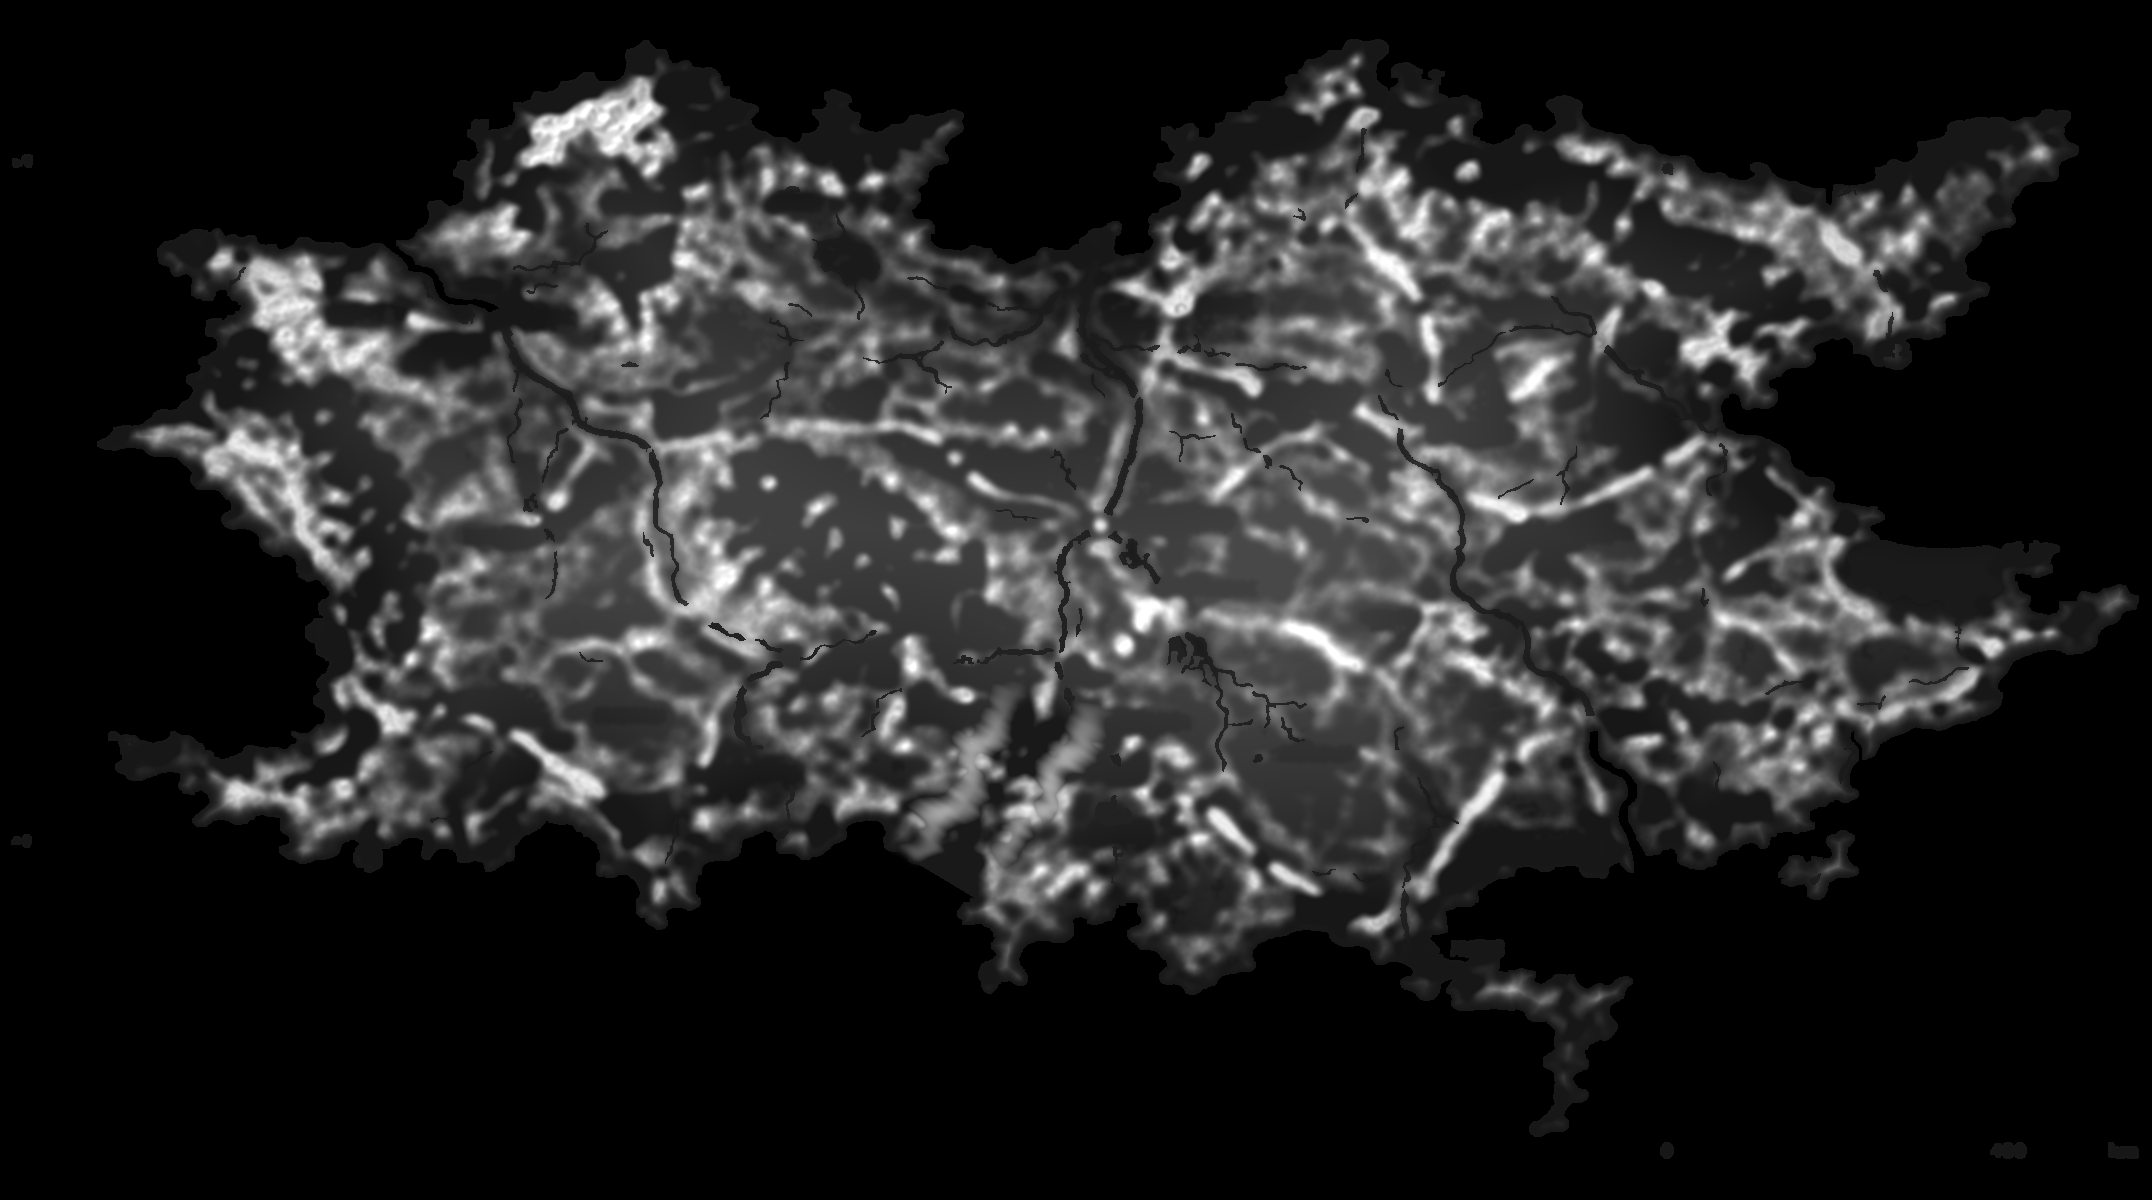
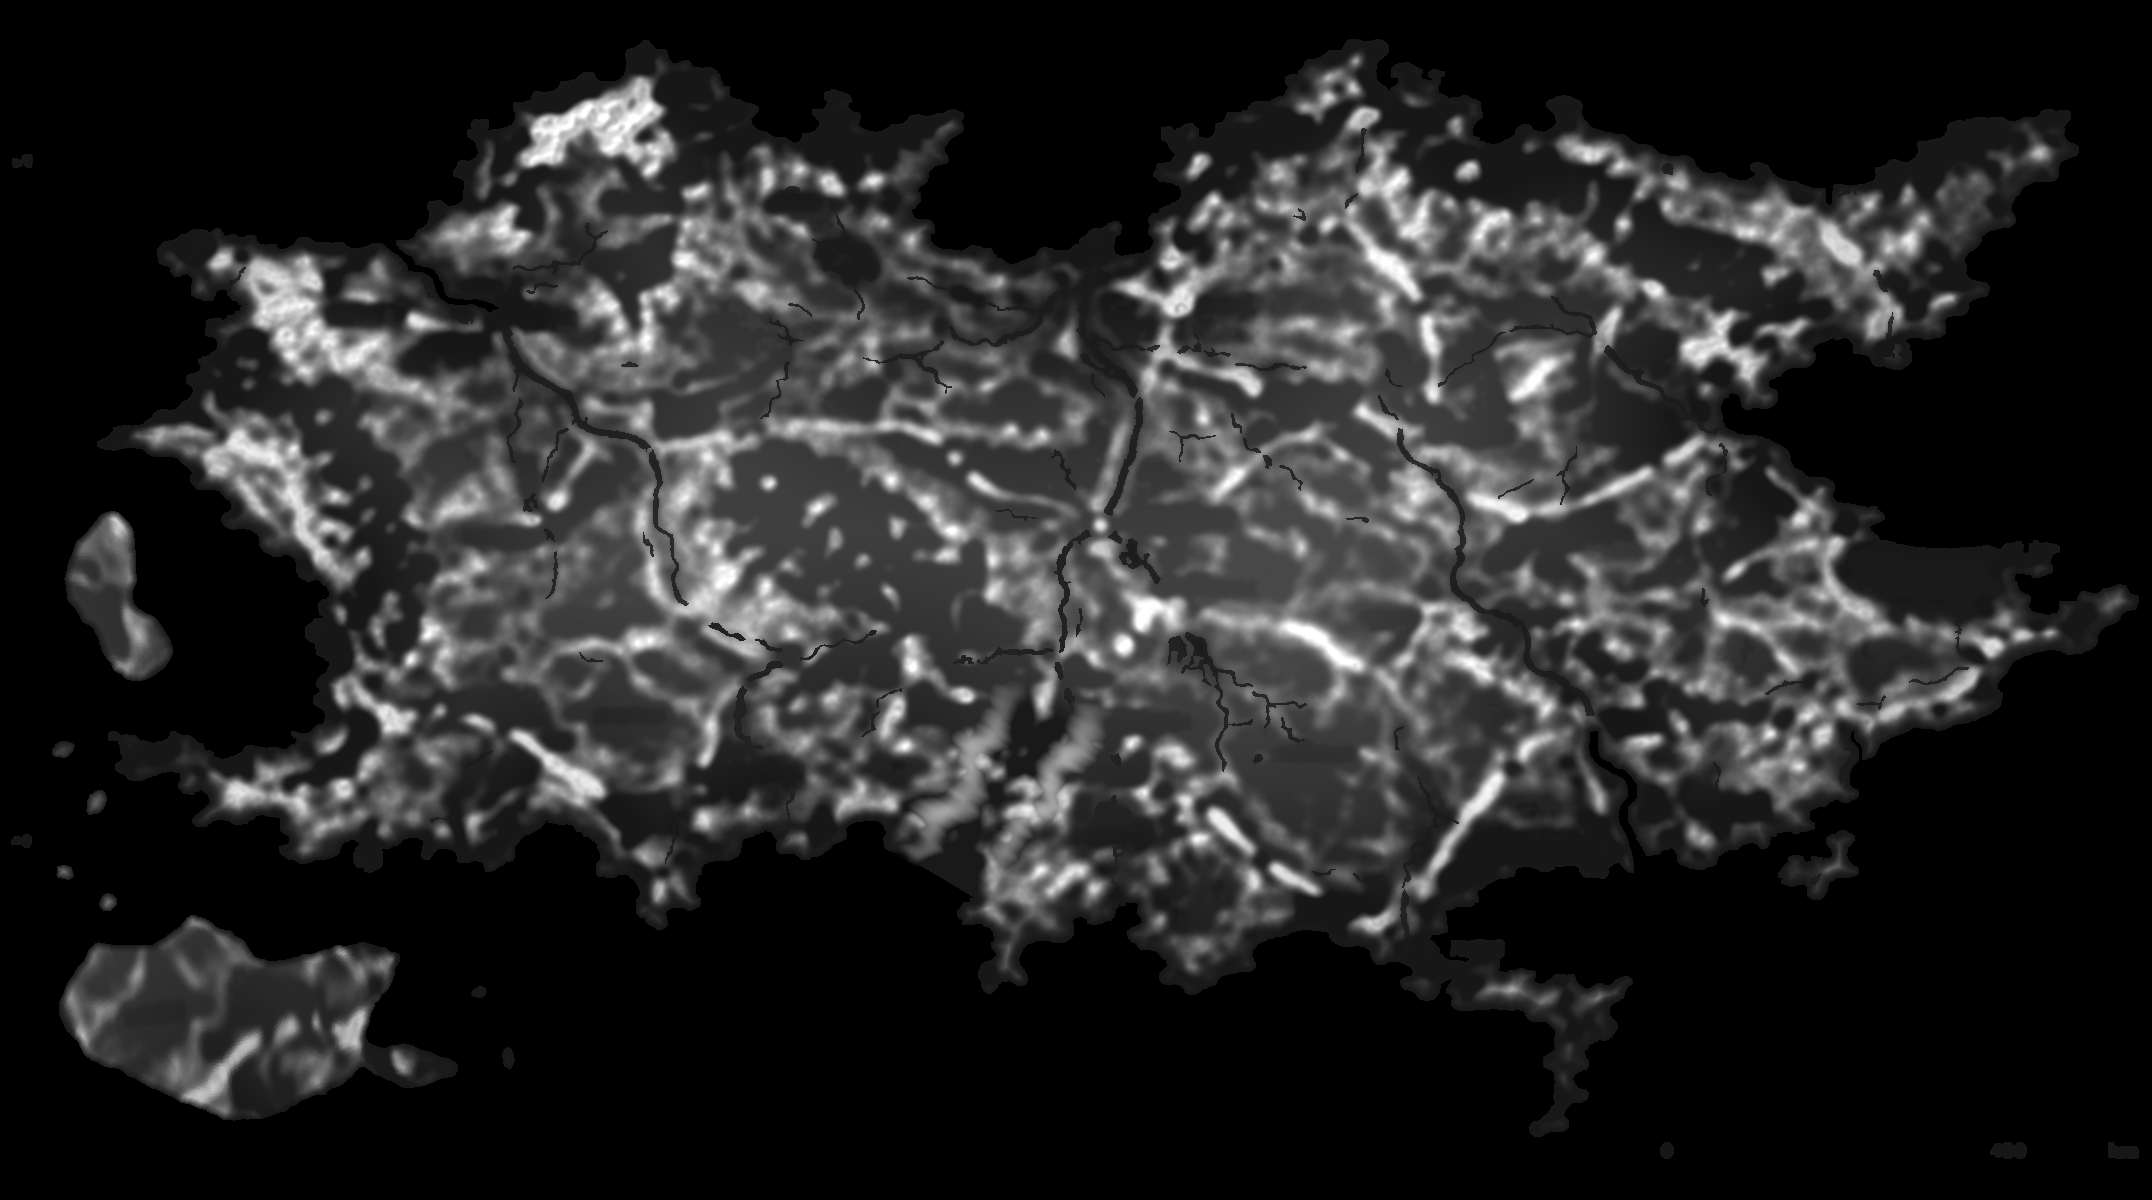
feat(flight): 阿斯佩里亞外海加大型島群／(1094,808) 設村落備用 ver -733
Ray：「在1094,808設置一個村落，備著」「飛行地圖在阿斯佩里亞王國外海增加
一個大型島嶼，面積與恩亞王國差不多，島群配置像英國但不要讓人一眼看出」

- 島群（flight/build_island.py 生成，可重跑調形）：
  · 主島 48,901px ≈ 恩雅（48,922），西南外海，長軸東西向
  · 中島 10,201px 在西灣、小島鏈 6 顆往南串——不列顛群島的「一大一中一串」
    結構，但整組鏡射＋換方位，看不出原型
  · 地形與配色從阿斯佩里亞內陸「整塊搬運」（鏡射＋低頻扭曲 ±22px）——
    白稜線／林斑／烘死的陰影與大陸同一鍋，不是貼上去的
  · 驗過：不壓既有陸地、最窄海峽 24px、離圖緣 52px、40 個星點全部無恙
- 兩張 silvermoon PNG 同名覆蓋 → HEIGHT_URL/COLOR_URL 掛 ?v=2（§5 鐵則）；
  原圖已入回收區
- 村落：SETTLEMENTS 加 t:'village' f:'empire'（該點 region＝薩梅爾帝國），
  沒有名字、沒有 town 鑰匙、不加 PLACES —— 備著，等 Ray 定名。
  實測 10 棟建物生成、道路網自動接上
- FLIGHT_VER 由 -568 補到 -733（它是與 config VERSION 互指的那一份，欠了 165 版）

Changed region(s): [[0.0311, 0.74, 0.2179, 0.9558], [0.0311, 0.4317, 0.0934, 0.5858], [0.0311, 0.6475, 0.0623, 0.6783]]

diff --git a/flight/index.html b/flight/index.html
@@ -492,8 +492,10 @@
      入口：首頁「試飛」鈕，僅管理人模式可見。
    ══════════════════════════════════════════════════════════════════════ */
 
-const HEIGHT_URL = 'silvermoon_heightmap.png';
-const COLOR_URL  = 'silvermoon_terrain.png';
+/* ⚠ `?v=N`：同名覆蓋的圖一定要帶快取戳記（§5 的 ver -650 鐵則）。
+   v2 ＝ ver -733 加了阿斯佩里亞外海的島群（兩張一起改、一起升版）。 */
+const HEIGHT_URL = 'silvermoon_heightmap.png?v=2';
+const COLOR_URL  = 'silvermoon_terrain.png?v=2';
 
 /* ── 世界尺度 ─────────────────────────────────────────────────────
    MAP_SCALE＝一個高度圖像素等於幾個世界單位。放大世界＝提高這個值，
@@ -507,7 +509,7 @@ const COLOR_URL  = 'silvermoon_terrain.png';
       靠 DET_TILE（以世界座標平鋪 256 單位）補回高頻細節 ——
       世界放大後那層雜訊相對地貌變細，剛好幫忙蓋掉。 */
 /* 版本號（顯示在 HUD）。⚠ 與 config.js 的 VERSION 同步，改版本要一起改。 */
-const FLIGHT_VER = 'ver -568';
+const FLIGHT_VER = 'ver -733';
 const MAP_SCALE  = 20;
 const INV_SCALE  = 1/MAP_SCALE;
 const PEAK_SCALE = 520;   // 高度圖 255 對應的世界高度（越大山越陡）
@@ -783,6 +785,11 @@ const SETTLEMENTS = [
     planW:700, planRot:0.0, planTall:40,
     smoke:{ n:8, seed:11, area:[-0.55,0.55,-0.15,0.55] },
     podium:{ r:1.05, skirt:8, lift:0 } },
+  /* ── 村落（ver -733，Ray：「在1094,808設置一個村落，備著」）──────────────
+     還沒有名字、沒有城鎮內容（不寫 `town` ＝沒有降落鈕）、沒有名牌（PLACES
+     不加 —— 名字定了再補）。程序生成的村落街廓，先立在那裡備用。
+     地形對過：該點 raw 高度 44（低地、內陸），region＝薩梅爾帝國 → f:'empire'。 */
+  { n:'村落', x:1094, y:808, t:'village', f:'empire' },
 ];
 /* 手繪平面圖：背景載，載不到就退回程序生成的街廓（同飛空艇/怪的雙軌）。
    ⚠ 不進 loadWorld：它只影響少數幾座城的外觀，擋開場不划算。 */

diff --git a/config.js b/config.js
@@ -21,7 +21,7 @@ import { ART } from './script/speakers.js';
  *     以為是快取卡住 —— 版本號不動就等於沒有版本號）。
  *  ⚠ 它同時是**暖開機戳記的鑰匙**（main.js 的 `WARM_BOOT`）：版本一變，
  *    上一版的戳記就失效 → 下一次開機重跑完整讀取。那正是改版後該有的行為。 */
-export const VERSION = 'ver 2026.09.02-732';
+export const VERSION = 'ver 2026.09.02-733';
 
 export const GAME_CONFIG = {
 

diff --git a/flight/build_island.py b/flight/build_island.py
@@ -1,0 +1,195 @@
+#!/usr/bin/env python3
+# -*- coding: utf-8 -*-
+"""
+ver -733：阿斯佩里亞王國外海的大型島嶼（主島面積 ≈ 恩雅王國 48.9k 全解析像素）。
+島群配置取不列顛群島的「結構」（一大＋一中＋成串小島），但整個鏡射＋換方位：
+  · 主島在大陸西南外海，長軸東西向（不列顛是南北向）
+  · 中島在主島「北方」的西灣（愛爾蘭在不列顛西方）
+  · 小島鏈沿中島與主島之間往南串（赫布里底群島在蘇格蘭西北）
+重跑：py flight/build_island.py —— ⚠ 它會**覆蓋**兩張 silvermoon PNG，
+跑之前先 tools/recycle.sh 回收現行版，跑完把 index.html 的 ?v=N 再 +1（§5 快取鐵則）。
+預覽輸出 _island_preview.png / _island_world.png（底線開頭，遊戲不載、gitignore 同類）。
+高度＝多八度值雜訊 × 距岸衰減；配色＝按高度分箱從恩雅／南阿斯佩里亞的實地取樣，
+再乘上自算的 NW 光 hillshade（原圖的陰影是烘死的，新地也要有同一種立體感）。
+"""
+import numpy as np
+from PIL import Image
+from scipy import ndimage
+
+import os
+BASE = os.path.dirname(os.path.abspath(__file__)) + '/'
+rng = np.random.default_rng(20260902)
+
+hg = np.array(Image.open(BASE + 'silvermoon_heightmap.png')).astype(np.float64)
+tr = np.array(Image.open(BASE + 'silvermoon_terrain.png')).astype(np.float64)
+H, W = hg.shape
+sea_now = hg <= 21
+
+# ── 值雜訊（多八度）──────────────────────────────────────────────
+def vnoise(shape, cell, seed):
+    r = np.random.default_rng(seed)
+    gh, gw = shape[0] // cell + 2, shape[1] // cell + 2
+    g = r.random((gh, gw))
+    big = ndimage.zoom(g, cell, order=3)[:shape[0], :shape[1]]
+    return big
+
+def fbm(shape, base_cell, octaves, seed):
+    out = np.zeros(shape)
+    amp, tot = 1.0, 0.0
+    for o in range(octaves):
+        out += amp * vnoise(shape, max(2, base_cell >> o), seed + o)
+        tot += amp
+        amp *= 0.5
+    return out / tot
+
+# ── 形狀：高斯 blob 疊加 → 域扭曲 → 門檻（門檻用二分法逼近目標面積）──
+def blob(field, cx, cy, rx, ry, rot=0.0, w=1.0):
+    yy, xx = np.mgrid[0:H, 0:W]
+    ca, sa = np.cos(rot), np.sin(rot)
+    dx, dy = xx - cx, yy - cy
+    u = (dx * ca + dy * sa) / rx
+    v = (-dx * sa + dy * ca) / ry
+    field += w * np.exp(-(u * u + v * v) * 1.8)
+
+def shape_mask(blobs, target_area, warp_amp, seed, roughness_cell=48):
+    f = np.zeros((H, W))
+    for b in blobs:
+        blob(f, *b)
+    # 域扭曲：海岸線的碎形感
+    wx = (fbm((H, W), roughness_cell, 4, seed) - 0.5) * 2
+    wy = (fbm((H, W), roughness_cell, 4, seed + 100) - 0.5) * 2
+    yy, xx = np.mgrid[0:H, 0:W]
+    sx = np.clip(xx + wx * warp_amp, 0, W - 1)
+    sy = np.clip(yy + wy * warp_amp, 0, H - 1)
+    f = ndimage.map_coordinates(f, [sy, sx], order=1)
+    lo, hi = 0.05, 0.95
+    for _ in range(40):
+        th = (lo + hi) / 2
+        area = int((f > th).sum())
+        if area > target_area:
+            lo = th
+        else:
+            hi = th
+    m = f > (lo + hi) / 2
+    # 只留最大連通塊（扭曲可能甩出碎屑）
+    lab, n = ndimage.label(m)
+    if n > 1:
+        sizes = ndimage.sum(m, lab, range(1, n + 1))
+        m = lab == (np.argmax(sizes) + 1)
+    return m
+
+# 主島：長軸東西向，西肥東尖（尾端一條往東的半島），北緣一個小隆起
+main = shape_mask([
+    (235, 1040, 148, 92, np.deg2rad(8)),      # 核心
+    (128, 1005, 78, 66, 0.0),                 # 西肥
+    (345, 978, 66, 42, np.deg2rad(-22)),      # 東北肩
+    (418, 1062, 52, 26, np.deg2rad(14), 0.9), # 東半島（康瓦爾的鏡像語氣）
+    (198, 952, 55, 40, 0.0, 0.8),             # 北隆起
+], target_area=48900, warp_amp=14, seed=7)
+
+# 中島：西灣裡，NNE–SSW 斜放
+mid = shape_mask([
+    (102, 565, 44, 72, np.deg2rad(18)),
+    (138, 645, 42, 40, 0.0, 0.9),
+], target_area=10200, warp_amp=10, seed=17)
+
+# 小島鏈（中島 → 主島之間往南串；另兩顆在主島東側）
+isles = np.zeros((H, W), dtype=bool)
+for (cx, cy, r, sd) in [(60, 748, 13, 31), (96, 802, 15, 32), (63, 872, 11, 33),
+                        (108, 903, 12, 34), (480, 992, 9, 35), (507, 1058, 11, 36)]:
+    isles |= shape_mask([(cx, cy, r, r * 0.8, rng.random() * 3.14)],
+                        target_area=int(np.pi * r * r * 0.55), warp_amp=4, seed=sd,
+                        roughness_cell=16)
+
+island = main | mid | isles
+
+# ── 安全檢查 ──────────────────────────────────────────────────────
+assert island[~sea_now].sum() == 0, '島壓到既有陸地！'
+d_old = ndimage.distance_transform_edt(hg <= 21)   # 距既有陸地
+min_strait = d_old[island].min()
+print('最窄海峽（到既有陸地，px）:', round(min_strait, 1))
+assert min_strait >= 22, '海峽太窄'
+import json
+stars = json.load(open(BASE + 'starpoints.json'))['points']
+newland_d = ndimage.distance_transform_edt(~island)
+for p in stars:
+    d = newland_d[int(p['y']), int(p['x'])]
+    assert d > 18, f"星點 {p['id']} 被新島壓到（d={d}）"
+edge = min(island.nonzero()[1].min(), (W - 1) - island.nonzero()[1].max(),
+           island.nonzero()[0].min(), (H - 1) - island.nonzero()[0].max())
+print('離圖緣最近（px）:', edge)
+print('面積 主島:', int(main.sum()), '中島:', int(mid.sum()), '小島:', int(isles.sum()),
+      '合計:', int(island.sum()), '（恩雅=48922）')
+
+# ── 高度 ──────────────────────────────────────────────────────────
+dist_in = ndimage.distance_transform_edt(island)
+# 海岸帶 0→1（8px 拉滿）；內陸再以 fbm 起伏
+coast = np.clip(dist_in / 8.0, 0, 1)
+n1 = fbm((H, W), 96, 5, 900)          # 大起伏
+n2 = fbm((H, W), 24, 4, 901)          # 細節
+# 高地核：主島西南一塊（把「蘇格蘭高地在北」的印象打掉）
+yy, xx = np.mgrid[0:H, 0:W]
+highland = np.exp(-(((xx - 175) / 95.0) ** 2 + ((yy - 1065) / 60.0) ** 2) * 1.6)
+h_is = 26 + coast * (16 + n1 * 70 + n2 * 24 + highland * 105 * n1)
+h_is = np.clip(h_is, 24, 210)
+h_new = hg.copy()
+h_new[island] = h_is[island]
+land_h = h_new[island]
+print('島高度: min', int(land_h.min()), 'mean', round(land_h.mean(), 1), 'max', int(land_h.max()))
+
+# ── 配色＋高度改成「整塊搬運」：從大陸內陸借真實地形（顏色與高度一起）──
+# 逐像素合成的質感一眼是貼的（沒有烘死的白稜線與林斑）；借真地形連陰影、
+# 銳化、河點都是同一鍋出來的。防認出：來源鏡射 ＋ 低頻域扭曲 ±22px。
+# 來源：阿斯佩里亞中部內陸（平原＋稜線＋林斑都有）
+SX0, SX1, SY0, SY1 = 180, 760, 300, 820
+warpx = (fbm((H, W), 128, 3, 903) - 0.5) * 44
+warpy = (fbm((H, W), 128, 3, 904) - 0.5) * 44
+iy, ix = np.where(island)
+IX0, IY0 = ix.min(), iy.min()
+IW, IH = ix.max() - IX0 + 1, iy.max() - IY0 + 1
+# 鏡射映射（x 翻轉）＋等比縮放塞進來源框
+kx = (SX1 - SX0 - 60) / IW
+ky = (SY1 - SY0 - 60) / IH
+sx = SX1 - 30 - (ix - IX0) * kx + warpx[iy, ix]
+sy = SY0 + 30 + (iy - IY0) * ky + warpy[iy, ix]
+sx = np.clip(sx, 0, W - 1); sy = np.clip(sy, 0, H - 1)
+sxi, syi = sx.astype(int), sy.astype(int)
+# 來源落在海／河上的點 → 用「最近合法來源」補（在來源空間查最近陸地）
+riverish = (tr[..., 2] > tr[..., 0] + 16) & (tr[..., 2] > tr[..., 1] + 4) \
+           & (tr[..., 2] > 70) & (tr[..., 2] < 200)
+valid = (hg > 21) & ~riverish
+_, (nyi, nxi) = ndimage.distance_transform_edt(~valid, return_indices=True)
+bad = ~valid[syi, sxi]
+b_sy, b_sx = syi[bad].copy(), sxi[bad].copy()
+syi[bad] = nyi[b_sy, b_sx]
+sxi[bad] = nxi[b_sy, b_sx]
+print('來源落海要補的點：', int(bad.sum()), '/', len(sxi))
+# 顏色直接搬
+out_c = tr.copy()
+out_c[iy, ix] = tr[syi, sxi]
+# 高度：借來源的結構，乘上距岸衰減（島緣要沉入海）；壓一點讓島的量感 ≈ 恩雅
+h_src = hg[syi, sxi]
+h_bor = 24 + np.clip(h_src - 20, 0, None) * 0.80
+h_new = hg.copy()
+h_new[iy, ix] = np.clip(24 + coast[iy, ix] * (h_bor - 24), 24, 210)
+land_h = h_new[island]
+print('島高度: min', int(land_h.min()), 'mean', round(land_h.mean(), 1), 'max', int(land_h.max()))
+# 海岸帶把借來的顏色往岸色壓一點（來源是內陸，直接切到海會太生硬）
+coast_band = (coast < 1) & island
+shore = np.array([146, 138, 108], dtype=np.float64)   # 既有海岸的砂岩色調
+a = (1 - coast[coast_band])[:, None] * 0.5
+out_c[coast_band] = out_c[coast_band] * (1 - a) + shore * a
+mask3 = island[..., None]
+
+# ── 輸出 ──────────────────────────────────────────────────────────
+Image.fromarray(np.clip(h_new, 0, 255).astype(np.uint8), 'L').save(BASE + 'silvermoon_heightmap.png')
+Image.fromarray(np.clip(out_c, 0, 255).astype(np.uint8), 'RGB').save(BASE + 'silvermoon_terrain.png')
+print('已寫出兩張 PNG')
+
+# 預覽
+prev = out_c.astype(np.uint8).copy()
+prev[h_new <= 21] = [18, 28, 52]
+Image.fromarray(prev[380:1200, 0:700]).save(
+    BASE + '_island_preview.png')
+Image.fromarray(prev[::2, ::2]).save(
+    BASE + '_island_world.png')
